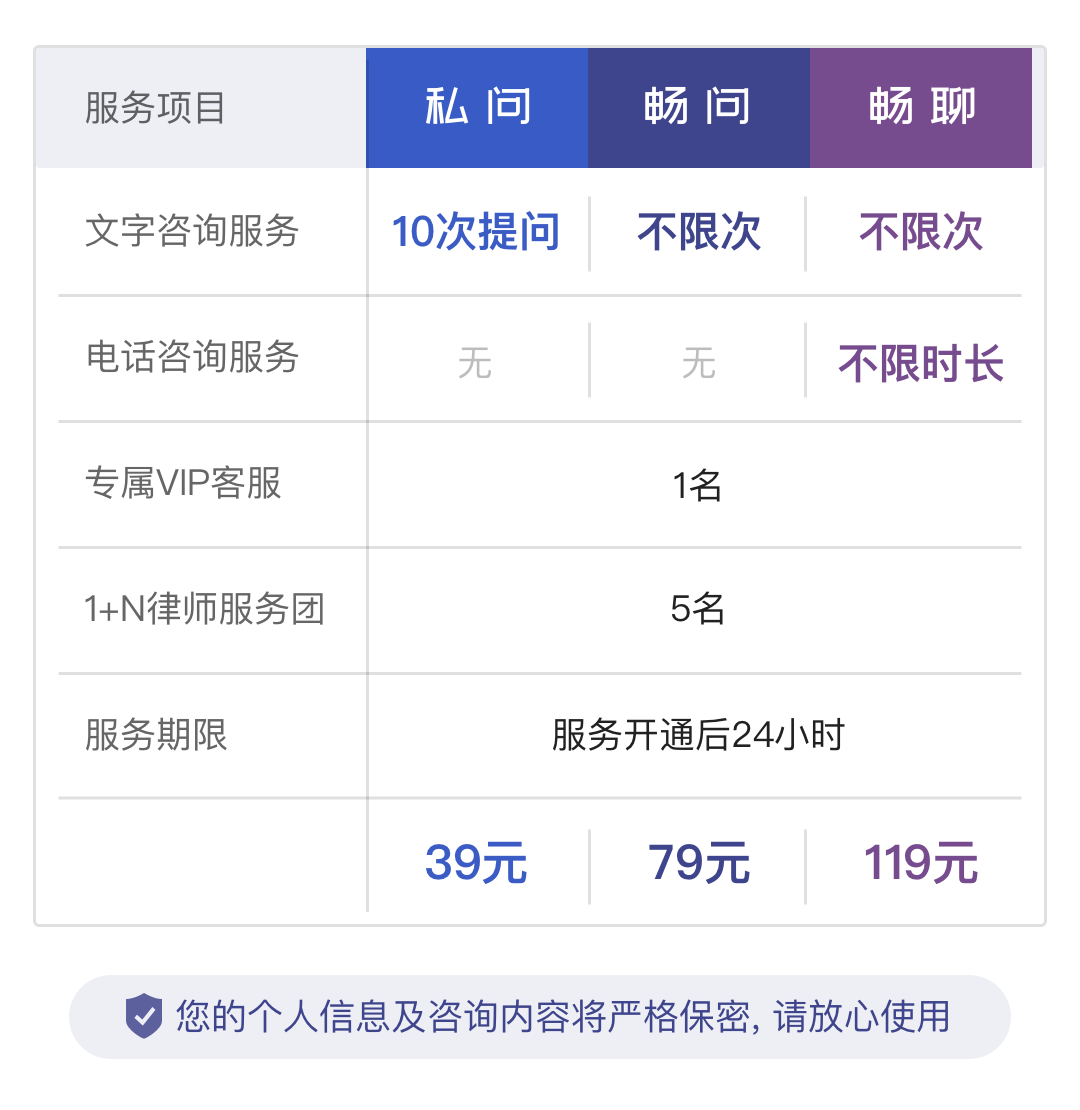
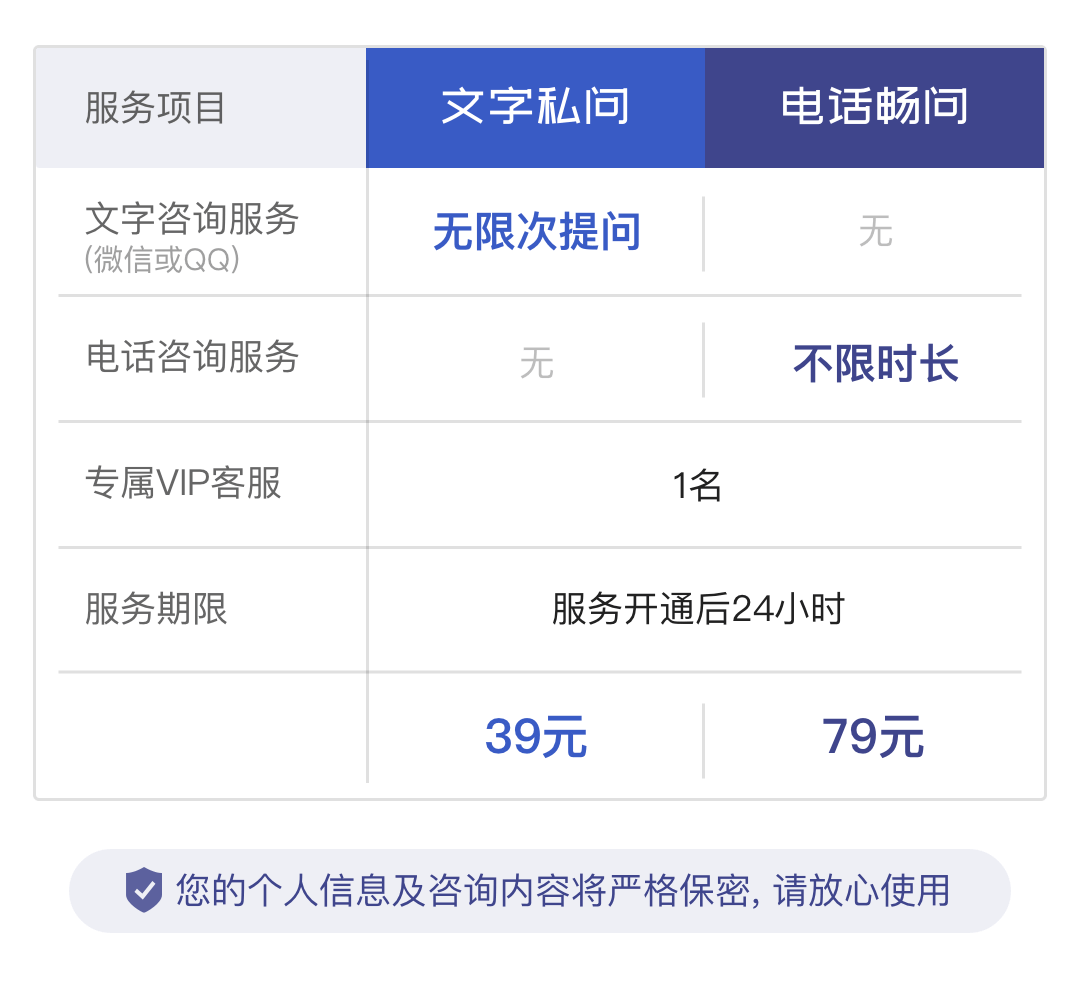
增加倒计时

diff --git a/src/views/lawyer/index.vue b/src/views/lawyer/index.vue
@@ -150,7 +150,7 @@
 				let secondNum = [3, 5, 8, 7];
 				let index = 0;
 				let secondIndex;
-				let contentList = ['39元私问服务', '79元畅问服务', '119元畅聊服务'];
+				let contentList = ['39元文字私问服务', '79元电话畅问'];
 				for(let i = 0; i < 100; i++) {
 					phone += 1;
 					secondIndex = Math.floor(Math.random() * 3);
@@ -163,7 +163,7 @@
 						}
 					}
 					time = Math.floor(Math.random() * 49) + 10;
-					index = parseInt(i % 3);
+					index = parseInt(i % 2);
 					content = contentList[index]; 
 					list.push({phone, time, content});
 					phone = '';
